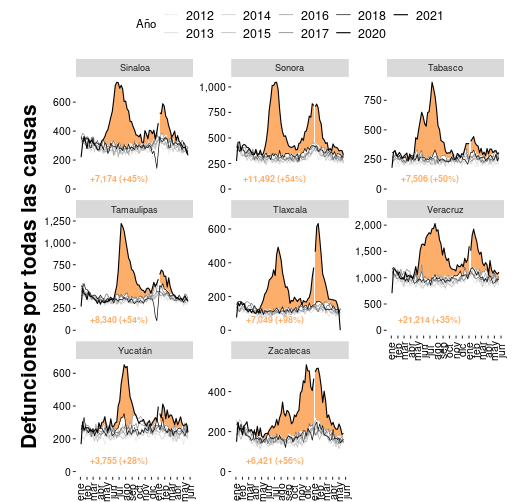
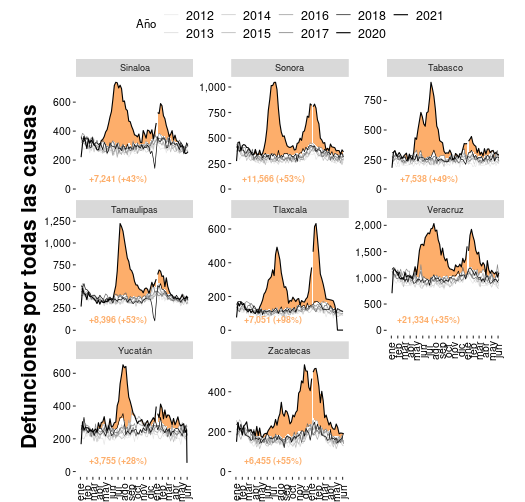
Exceso de mortalidad 2021-07-13

diff --git a/content/muertes/exceso_mortalidad_nacional.md b/content/muertes/exceso_mortalidad_nacional.md
@@ -11,7 +11,7 @@ son diagnosticadas. En
 <a href="https://www.economist.com/graphic-detail/2020/07/15/tracking-covid-19-excess-deaths-across-countries">países</a>
 se ha observado que la pandemia provoca un <i>exceso de mortalidad</i>.</p>
 
-<p>En México, desde el inicio de la pandemia y hasta el 22 de mayo de 2021
+<p>En México, desde el inicio de la pandemia y hasta el 5 de junio de 2021
 se han registrado <b>62% más defunciones</b> que en el mismo periodo de años
 previos.
 Estos números son preliminares ya que el catálogo nacional de defunciones

diff --git a/content/muertes/exceso_mortalidad_estados3.md b/content/muertes/exceso_mortalidad_estados3.md
@@ -8,7 +8,7 @@ medir el costo humano en cada entidad.</p>
 
 <p>Estas gráficas muestran el
 <a href="#exceso_mortalidad_nacional"><i>exceso de mortalidad</i></a>
-hasta el 22 de mayo de 2021 para 8 de las 32 entidades federativas del país.
+hasta el 5 de junio de 2021 para 8 de las 32 entidades federativas del país.
 La región con color indica las semanas con <i>exceso de mortalidad</i>.
 Se indica el número absoluto de exceso de mortalidad para canda entidad y el
 incremento porcentual. Las entidades federativas están organizadas

diff --git a/content/muertes/exceso_mortalidad_estados4.md b/content/muertes/exceso_mortalidad_estados4.md
@@ -8,7 +8,7 @@ medir el costo humano en cada entidad.</p>
 
 <p>Estas gráficas muestran el
 <a href="#exceso_mortalidad_nacional"><i>exceso de mortalidad</i></a>
-hasta el 22 de mayo de 2021 para 8 de las 32 entidades federativas del país.
+hasta el 5 de junio de 2021 para 8 de las 32 entidades federativas del país.
 La región con color indica las semanas con <i>exceso de mortalidad</i>.
 Se indica el número absoluto de exceso de mortalidad para canda entidad y el
 incremento porcentual. Las entidades federativas están organizadas

diff --git a/content/muertes/exceso_mortalidad_estados2.md b/content/muertes/exceso_mortalidad_estados2.md
@@ -8,7 +8,7 @@ medir el costo humano en cada entidad.</p>
 
 <p>Estas gráficas muestran el
 <a href="#exceso_mortalidad_nacional"><i>exceso de mortalidad</i></a>
-hasta el 22 de mayo de 2021 para 8 de las 32 entidades federativas del país.
+hasta el 5 de junio para 8 de las 32 entidades federativas del país.
 La región con color indica las semanas con <i>exceso de mortalidad</i>.
 Se indica el número absoluto de exceso de mortalidad para canda entidad y el
 incremento porcentual. Las entidades federativas están organizadas

diff --git a/content/muertes/exceso_mortalidad_estados1.md b/content/muertes/exceso_mortalidad_estados1.md
@@ -8,7 +8,7 @@ medir el costo humano en cada entidad.</p>
 
 <p>Estas gráficas muestran el
 <a href="#exceso_mortalidad_nacional"><i>exceso de mortalidad</i></a>
-hasta el 22 de mayo para 8 de las 32 entidades federativas del país.
+hasta el 5 de junio para 8 de las 32 entidades federativas del país.
 La región con color indica las semanas con <i>exceso de mortalidad</i>.
 Se indica el número absoluto de exceso de mortalidad para canda entidad y el
 incremento porcentual. Las entidades federativas están organizadas
